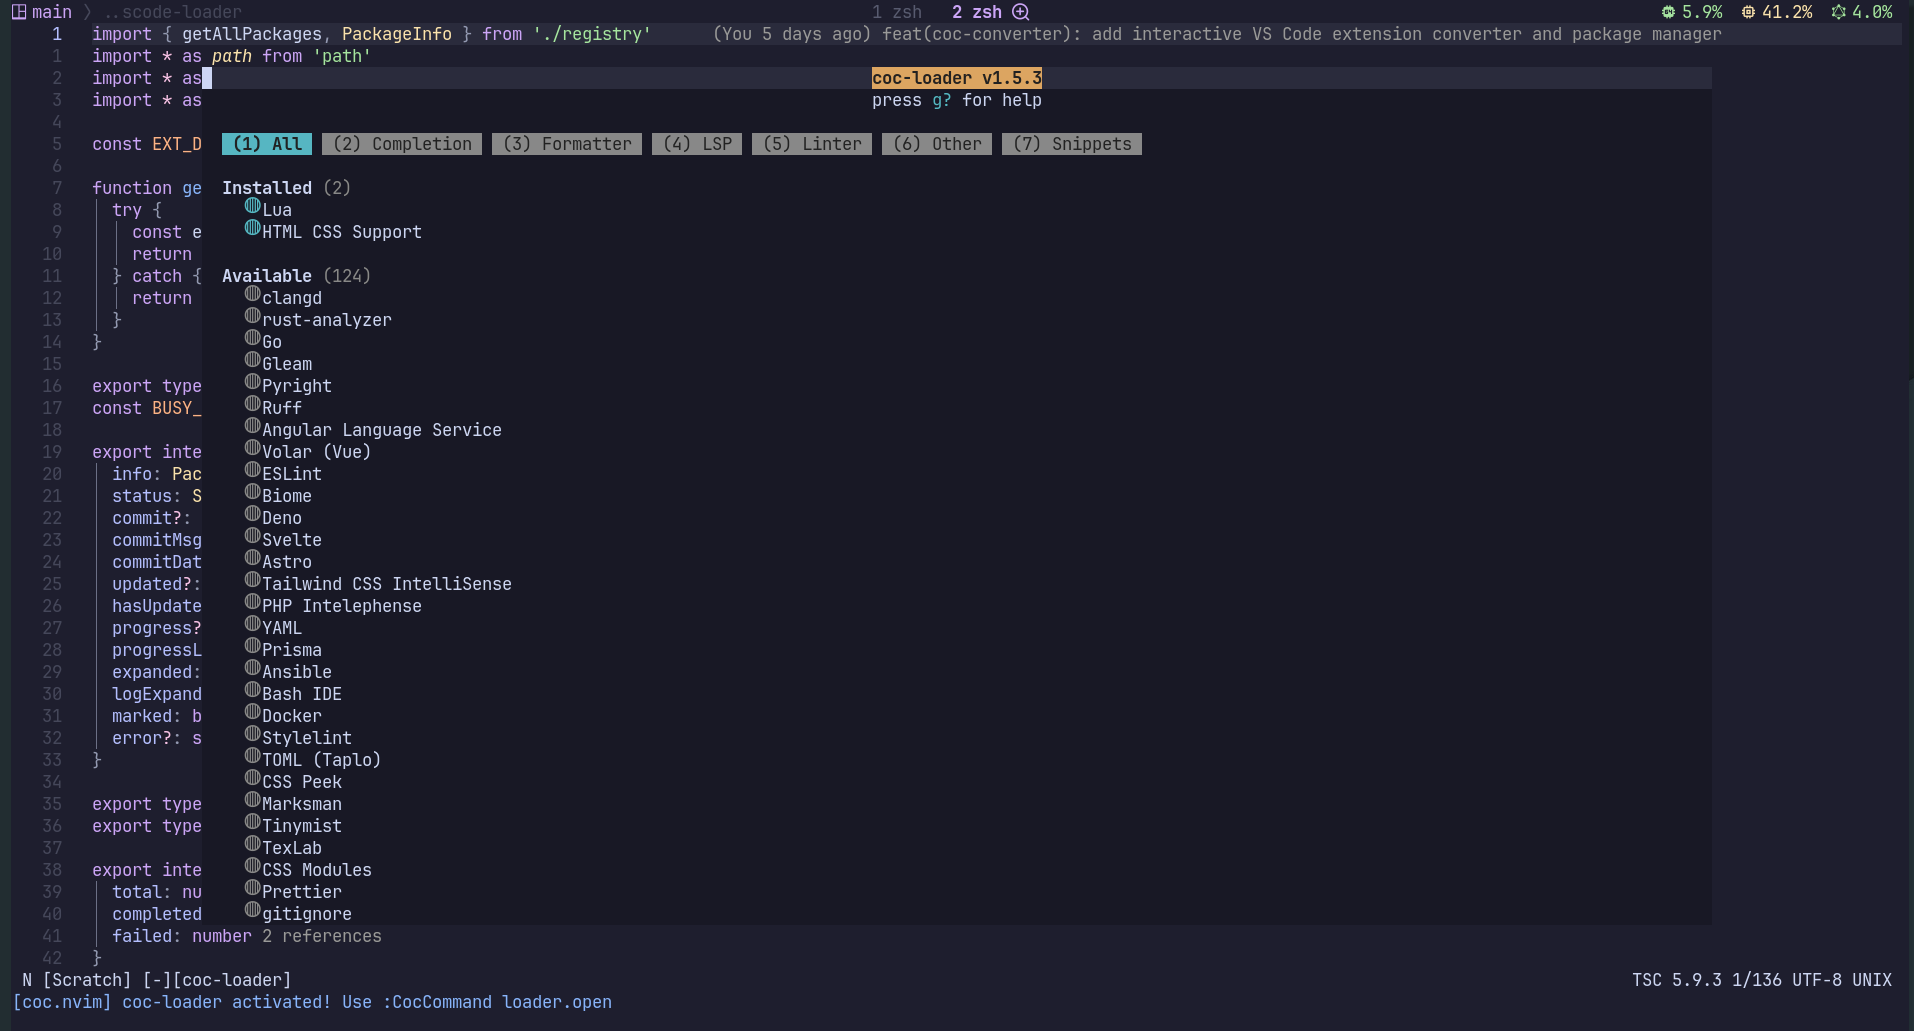
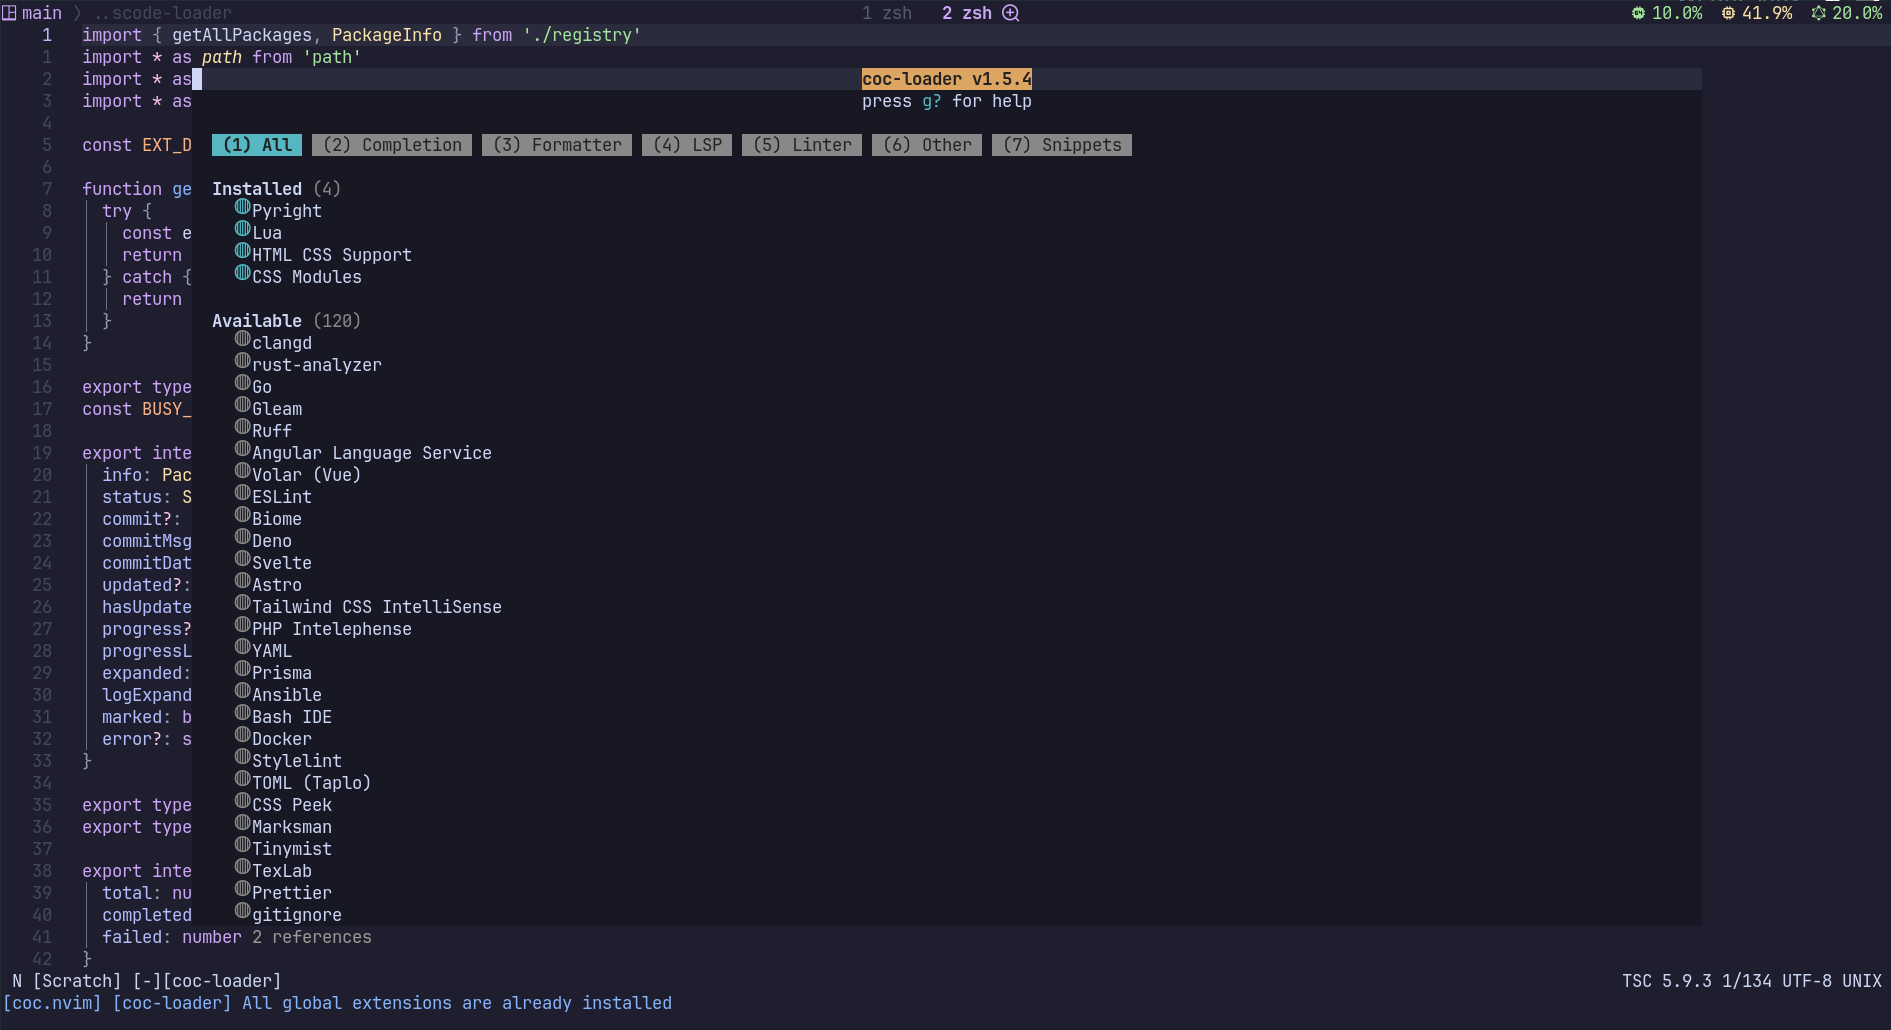
chore: bump version to 1.5.4
- Update converter and plugin package.json to v1.5.4
- Update CHANGELOG.md with v1.5.4 entries
- Update image URLs to v=1.5.4 cache-busting
- Update AGENTS.md example version

diff --git a/CHANGELOG.md b/CHANGELOG.md
@@ -1,5 +1,30 @@
 # Changelog
 
+## [1.5.4] - 2026-06-17
+
+### Added
+- **`loader.cleanCache` command** — clean source/build directories for all packages with cache size display
+- **`loader.list` command** — export installed package names to clipboard (dual Lua/VimL format)
+- **Queued section in TUI** — visualize packages waiting on concurrency slot during batch operations
+- **Cancel install support** — `<C-c>` keybinding to kill in-progress package operations (SIGTERM)
+- **Search mode** — `/` key for interactive real-time filtering via Neovim cmdline
+- **Language filter** — `<C-f>` quick pick language selector
+- **Auto-install global extensions** — `g:coc_loader_global_extensions` vim variable support with flexible name matching (`findPackage` three-tier: exact name → displayName → `vscode-` prefix)
+- **Silent update check on startup** — background check with notification only when updates found
+- **30-second timeout on startup update check** — prevent plugin activation from hanging on slow network
+
+### Fixed
+- **Error reporting** — show error message when uninstall or update actually fails
+- **Registry pre-fetch** — auto-fetch registry before uninstall/list commands to prevent empty results
+- **Busy guard** — silent update checks no longer block user-initiated check updates
+- **package.json write race** — mutex in `installToCoc` to serialize concurrent writes to `extensions/package.json`
+
+### Changed
+- **`registerPackageCmd` refactor** — centralize command registration pattern across install/uninstall/update/reinstall
+- **`loader.list` format** — copy Lua format to clipboard, show both Lua and VimL formats
+- **converter**: bump to v1.5.4
+- **plugin**: bump to v1.5.4
+
 ## [1.5.0] - 2026-06-16
 
 ### Added

diff --git a/README.md b/README.md
@@ -8,10 +8,10 @@
 [![open issues](https://img.shields.io/github/issues/coc-plugin/coc-vscode-loader)](https://github.com/coc-plugin/coc-vscode-loader/issues)
 
 <p align="center">
-  <img src="https://raw.githubusercontent.com/coc-plugin/coc-vscode-loader/main/plugin/assets/tui-preview.png?v=1.5.2" alt="TUI preview" width="100%">
+  <img src="https://raw.githubusercontent.com/coc-plugin/coc-vscode-loader/main/plugin/assets/tui-preview.png?v=1.5.4" alt="TUI preview" width="100%">
 </p>
 <p align="center">
-  <img src="https://cdn.jsdelivr.net/gh/coc-plugin/coc-vscode-registry@main/assets/registry-preview.png?v=1.5.2" alt="Registry preview" width="100%">
+  <img src="https://cdn.jsdelivr.net/gh/coc-plugin/coc-vscode-registry@main/assets/registry-preview.png?v=1.5.4" alt="Registry preview" width="100%">
 </p>
 
 在 coc.nvim 中无缝运行 VS Code 扩展。

diff --git a/AGENTS.md b/AGENTS.md
@@ -604,4 +604,4 @@ When updating images in `README.md` (e.g. `plugin/assets/tui-preview.png`), GitH
 <img src="https://raw.githubusercontent.com/coc-plugin/coc-vscode-loader/main/plugin/assets/tui-preview.png?v=<version>">
 ```
 
-Use the current version number (e.g. `v=1.5.2`) as the parameter value so it changes with each release. Do NOT use timestamps or random values — version numbers are meaningful and auto-increment.
+Use the current version number (e.g. `v=1.5.4`) as the parameter value so it changes with each release. Do NOT use timestamps or random values — version numbers are meaningful and auto-increment.

diff --git a/plugin/README.md b/plugin/README.md
@@ -1,6 +1,6 @@
 # coc-vscode-loader
 
-![TUI preview](https://raw.githubusercontent.com/coc-plugin/coc-vscode-loader/main/plugin/assets/tui-preview.png?v=1.5.2)
+![TUI preview](https://raw.githubusercontent.com/coc-plugin/coc-vscode-loader/main/plugin/assets/tui-preview.png?v=1.5.4)
 
 VS Code extension → coc.nvim plugin loader with TUI package manager.
 
